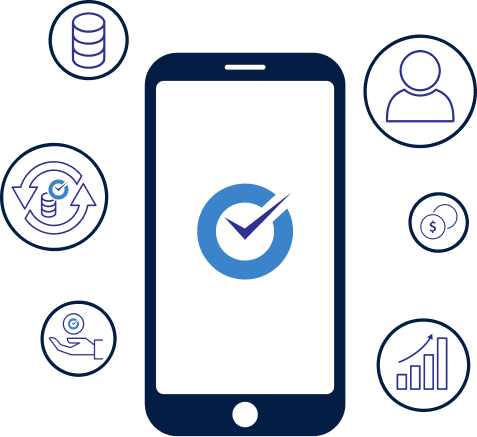
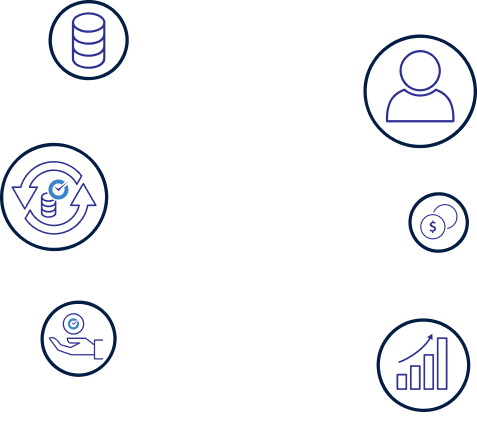
fix: update about image with gif

Changed region(s): [[0.2935, 0.119, 0.7338, 1.0], [0.4109, 0.4165, 0.6164, 0.6545]]

diff --git a/src/pages/index.tsx b/src/pages/index.tsx
@@ -6,7 +6,9 @@ import { ArrowRightIcon } from "@heroicons/react/outline";
 import Header from '../components/Header'
 import Footer from '../components/Footer'
 
-import AboutImage from '../assets/png/01.png';
+import AboutImage1 from '../assets/png/0101.png';
+import AboutImage2 from '../assets/png/0102.png';
+import AboutLogoImage from '../assets/gif/aboutlogo.gif';
 import EcoSystemImage from '../assets/png/02.png';
 import TickSvg from '../components/TickSvg';
 import WhitePaperSvg from '../components/WhitePaperSvg';
@@ -41,8 +43,12 @@ const Home: NextPage = () => {
             By registering your email with us you are agreeing to our privacy policy
           </div>
         </div>
-        <div className='flex-1 sm:mt-20 xl:ml-32 md:ml-8'>
-          <Image src={AboutImage} alt='About Image' />
+        <div className='flex-1 sm:mt-20 flex'>
+          <Image src={AboutImage1} alt='About Image1' layout='intrinsic' />
+          <div className='mx-5 mt-10'>
+            <Image src={AboutLogoImage} alt='About Image Logo' layout='intrinsic' />
+          </div>
+          <Image src={AboutImage2} alt='About Image2' layout='intrinsic' />
         </div>
       </div>
       <div className='flex flex-col xl:mx-auto lg:mx-16 md:mx-10 about-ora-description sm:px-20 sm:py-16 sm:mt-28'>
